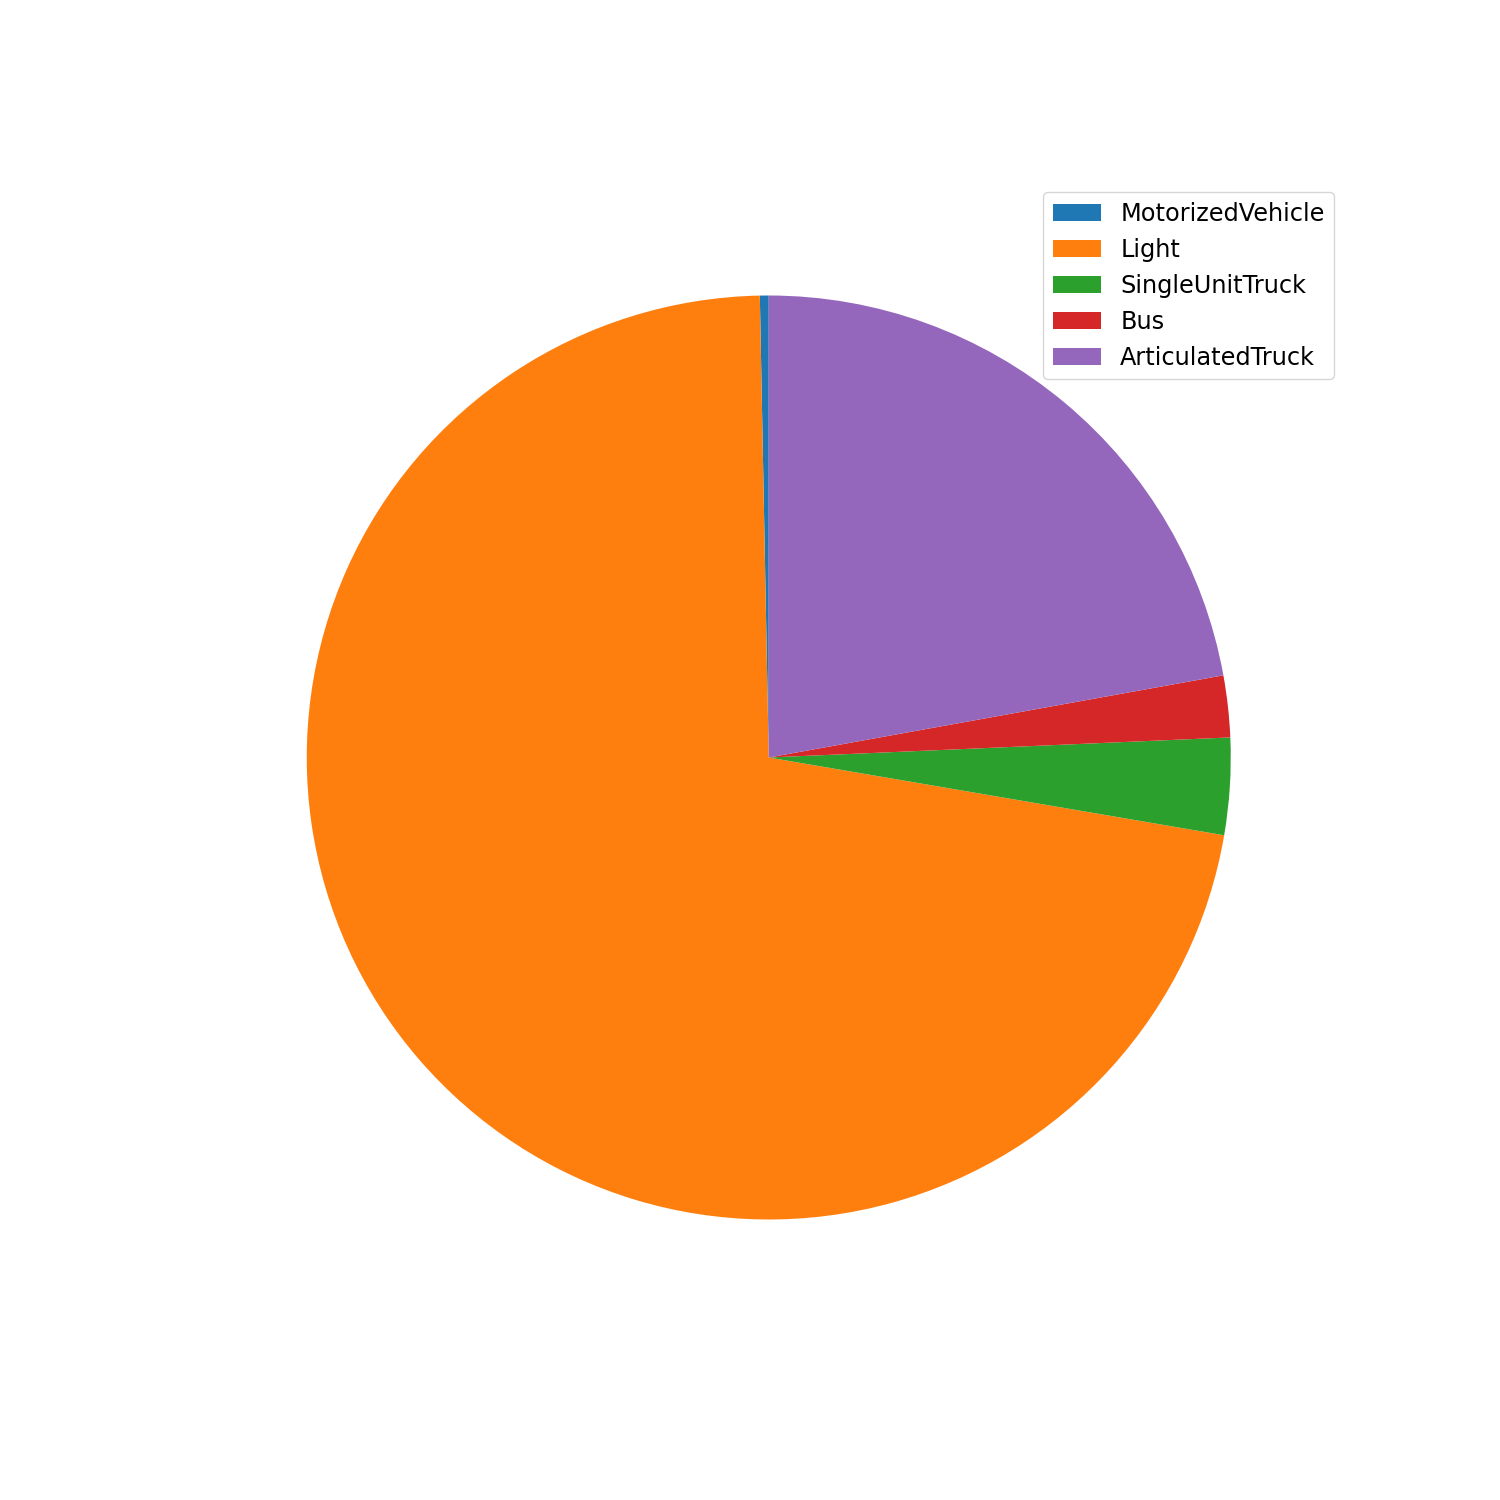
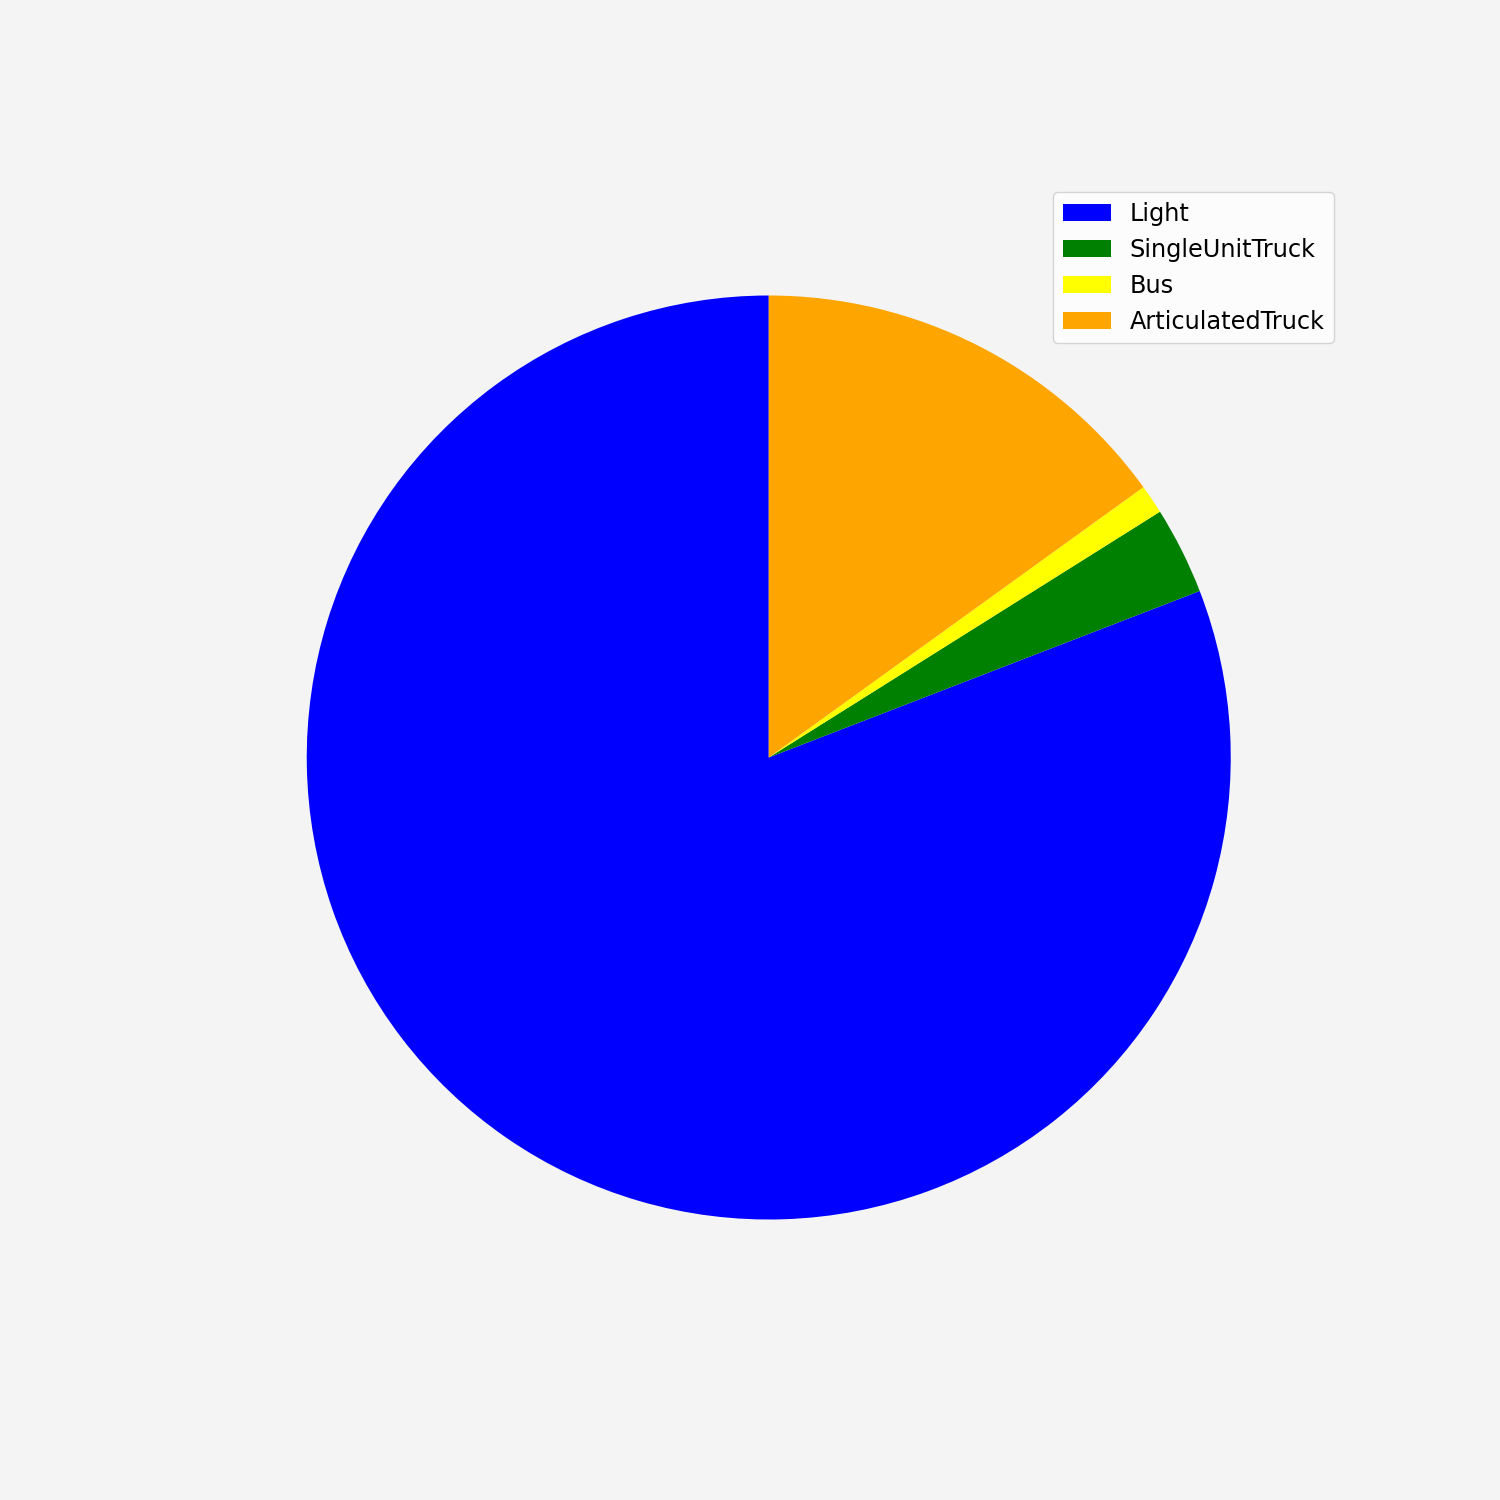
More styling done to pie chart

diff --git a/src/form.py b/src/form.py
@@ -51,18 +51,31 @@ def form():
         return render_template('form/form.html')
 
 def _create_pie_chart(vehicle_counts):
+
+    colors_dict = {
+        'Bicycle': 'red',
+        'MotorizedVehicle': 'purple',
+        'Light': 'blue',
+        'WorkVan': 'grey',
+        'SingleUnitTruck': 'green',
+        'Bus': 'yellow',
+        'ArticulatedTruck': 'orange'
+    }
+
     # Creating dataset
     labels = []
     values = []
+    colors = []
     for vehicle_type, quantity in vehicle_counts.items():
         if quantity > 0:
             labels.append(vehicle_type)
             values.append(quantity)
+            colors.append(colors_dict[vehicle_type])
         
         # Creating plot
         fig = plt.figure(figsize =(15, 15))
-        plt.pie(values, startangle=90)
+        plt.pie(values, colors=colors, startangle=90)
         plt.legend(labels, loc='upper right', fontsize='xx-large')
         
         # Save the image to the static folder before being redirected to the visualizer view
-        plt.savefig('src/static/pie_chart.png')
+        plt.savefig('src/static/pie_chart.png', facecolor='#f4f4f4')
